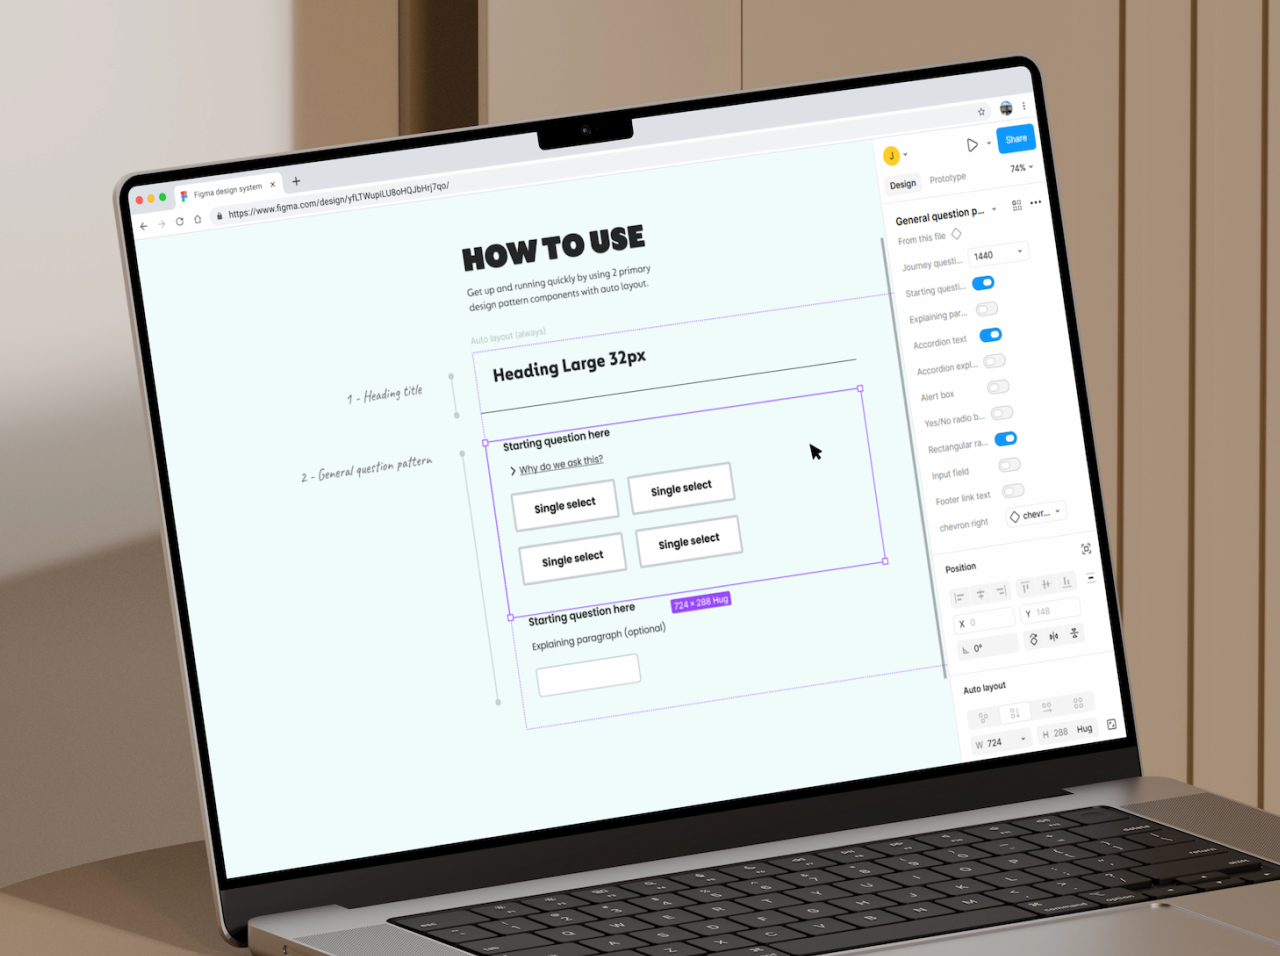
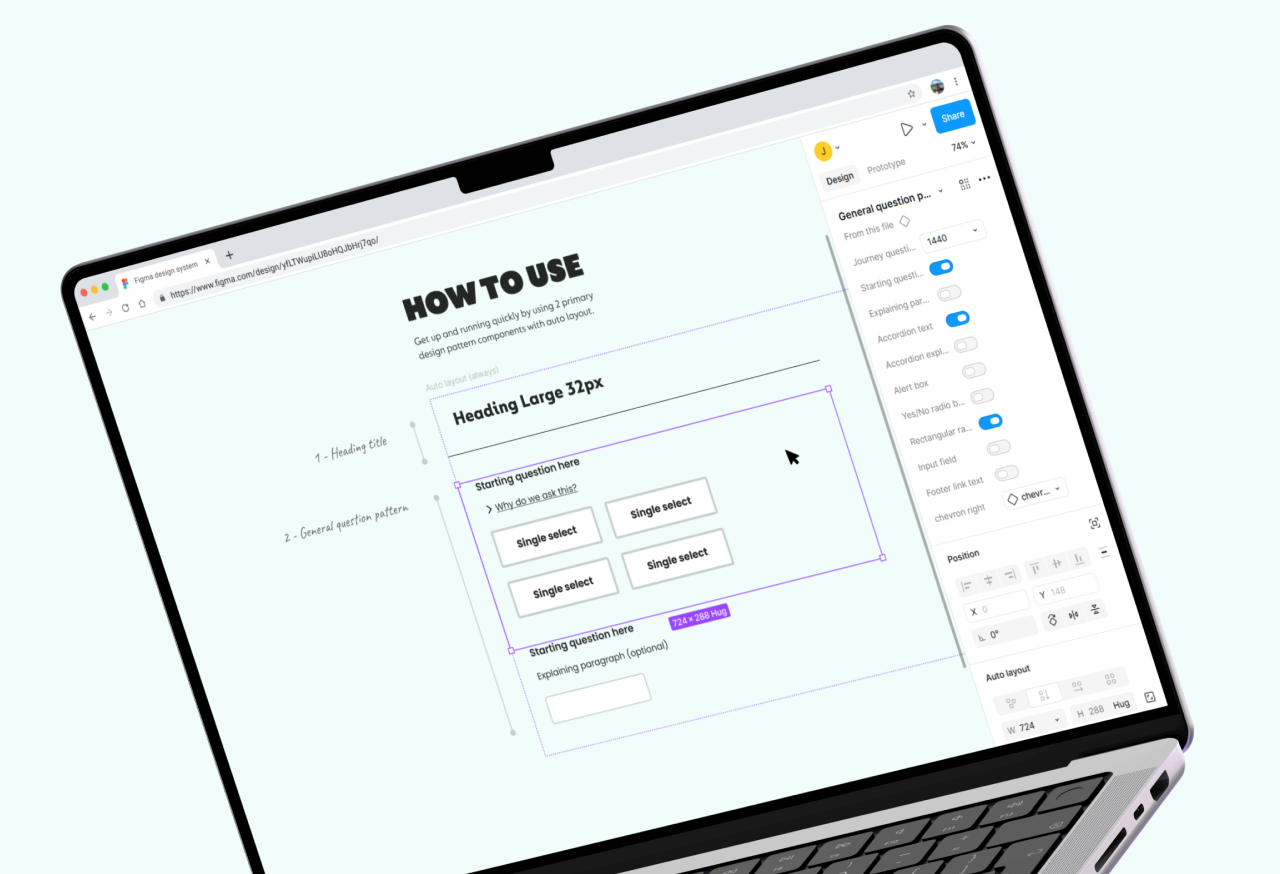
May x8

diff --git a/app/projects/gocompare-design-system/page.tsx b/app/projects/gocompare-design-system/page.tsx
@@ -130,12 +130,12 @@ export default function goCompareDesignSystem() {
       </figure>
 
       <figure className="container mx-auto max-w-7xl px-6 pb-28">
-        <Image
+        <img
           className="rounded-lg"
           src="/projects/goco-design-system-laptop-mock-up.png"
           width={1280}
-          height={956}
-          alt="Go.Compare laptop mock-up of design system"
+          height={874}
+          alt="Go.Compare laptop mock-up in Figma"
         />
       </figure>
 